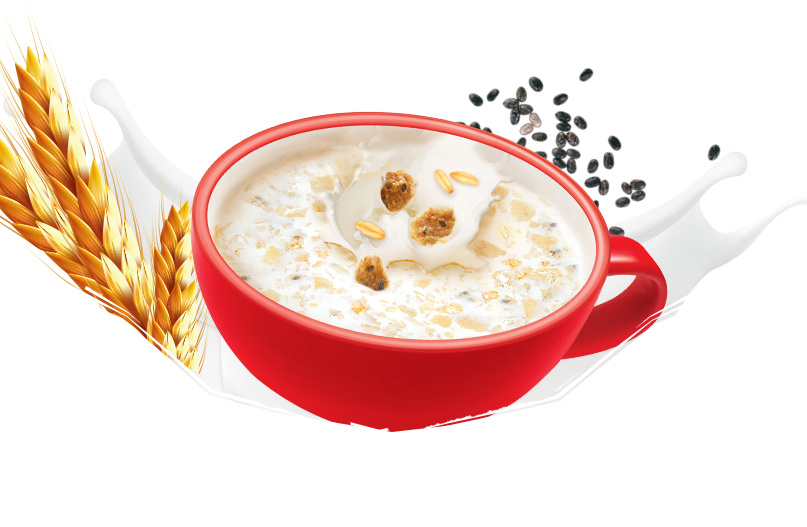
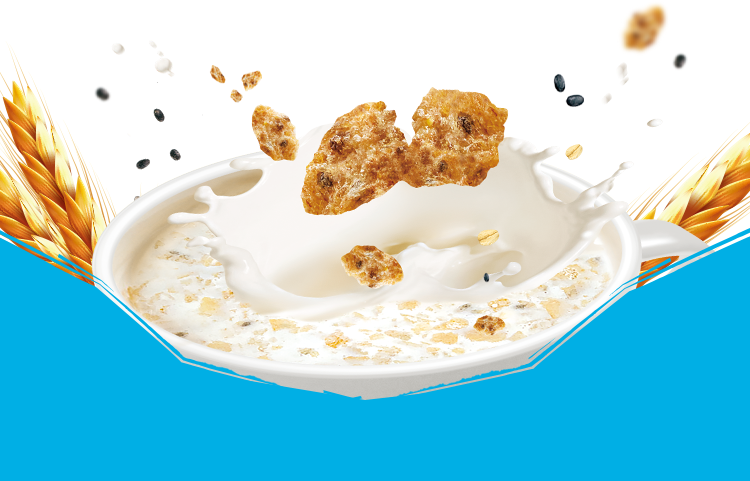
update loading

diff --git a/css/common.css b/css/common.css
@@ -450,6 +450,7 @@ footer p a {
   z-index: 100;
   top: 0;
   left: 0;
+  background-image: url(../images/loading_bg-m.png);
 }
 #loading .b {
   background-image: url(../images/loading_img02.png);
@@ -460,7 +461,7 @@ footer p a {
   bottom: 0;
   left: 50%;
   width: 110%;
-  height: 540px;
+  height: 614px;
   margin-left: -55%;
 }
 @media only screen and (max-width: 1920px) {
@@ -468,21 +469,21 @@ footer p a {
     background-size: contain;
     width: 1980px;
     margin-left: -990px;
-    height: 480px;
+    height: 614px;
   }
 }
 @media only screen and (max-height: 900px) {
   #loading .b {
     width: 1500px;
     margin-left: -750px;
-    height: 350px;
+    height: 460px;
   }
 }
 @media only screen and (max-width: 1000px) {
   #loading .b {
     width: 1200px;
     margin-left: -600px;
-    height: 290px;
+    height: 320px;
   }
 }
 @media only screen and (max-width: 750px) {
@@ -490,7 +491,7 @@ footer p a {
     background-image: url(../images/loading_img02_m.png);
     width: 807px;
     margin-left: -403px;
-    height: 527px;
+    height: 480px;
   }
 }
 @media only screen and (max-width: 500px) {
@@ -498,7 +499,6 @@ footer p a {
     width: 500px;
     margin-left: -250px;
     height: 310px;
-    border-bottom: 10px solid #fff;
   }
 }
 #loading .main {

diff --git a/js/index.js b/js/index.js
@@ -100,18 +100,18 @@ var preloadImages = [
     "images/video_i02.png",
     "images/video_img01.png",
 ];
-queue.on("complete", function (event) {
-    sessionStorage.setItem('isLoad', 1);
-    $('header, footer, article').show();
-    $("img").each(function(){
-        $(this).prop('src',$(this).attr('ds'));
-    });
-    $('body,html').stop().animate({ scrollTop: "0" }, 10);
-    indexInit();
-    $('#loading').fadeOut(500,function(){
-        // $('#loading').remove();
-    });
-});
+// queue.on("complete", function (event) {
+//     sessionStorage.setItem('isLoad', 1);
+//     $('header, footer, article').show();
+//     $("img").each(function(){
+//         $(this).prop('src',$(this).attr('ds'));
+//     });
+//     $('body,html').stop().animate({ scrollTop: "0" }, 10);
+//     indexInit();
+//     $('#loading').fadeOut(500,function(){
+//         // $('#loading').remove();
+//     });
+// });
 queue.on("progress", function (event) {
     // $('.loading .loading_num').text(Math.round(event.progress * 100) + '%');
     if($(window).width()<=733){

diff --git a/css/common.sass b/css/common.sass
@@ -309,7 +309,8 @@ footer
 	z-index: 100
 	top: 0
 	left: 0
-	// display: none
+	+rwd(750px)
+	background-image: url(../images/loading_bg-m.png)
 	.b
 		background-image: url(../images/loading_img02.png)
 		background-repeat: no-repeat
@@ -319,31 +320,30 @@ footer
 		bottom: 0
 		left: 50%
 		width: 110%
-		height: 540px
+		height: 614px
 		margin-left: -55%
 		+rwd(1920px)
 			background-size: contain
 			width: 1980px
 			margin-left: -990px
-			height: 480px
+			height: 614px
 		+rwd3()
 			width: 1500px
 			margin-left: -750px
-			height: 350px
+			height: 460px
 		+rwd(1000px)
 			width: 1200px
 			margin-left: -600px
-			height: 290px
+			height: 320px
 		+rwd(750px)
 			background-image: url(../images/loading_img02_m.png)
 			width: 807px
 			margin-left: -403px
-			height: 527px
+			height: 480px
 		+rwd(500px)
 			width: 500px
 			margin-left: -250px
 			height: 310px
-			border-bottom: 10px solid #fff
 	.main
 		position: absolute
 		top: 50%
